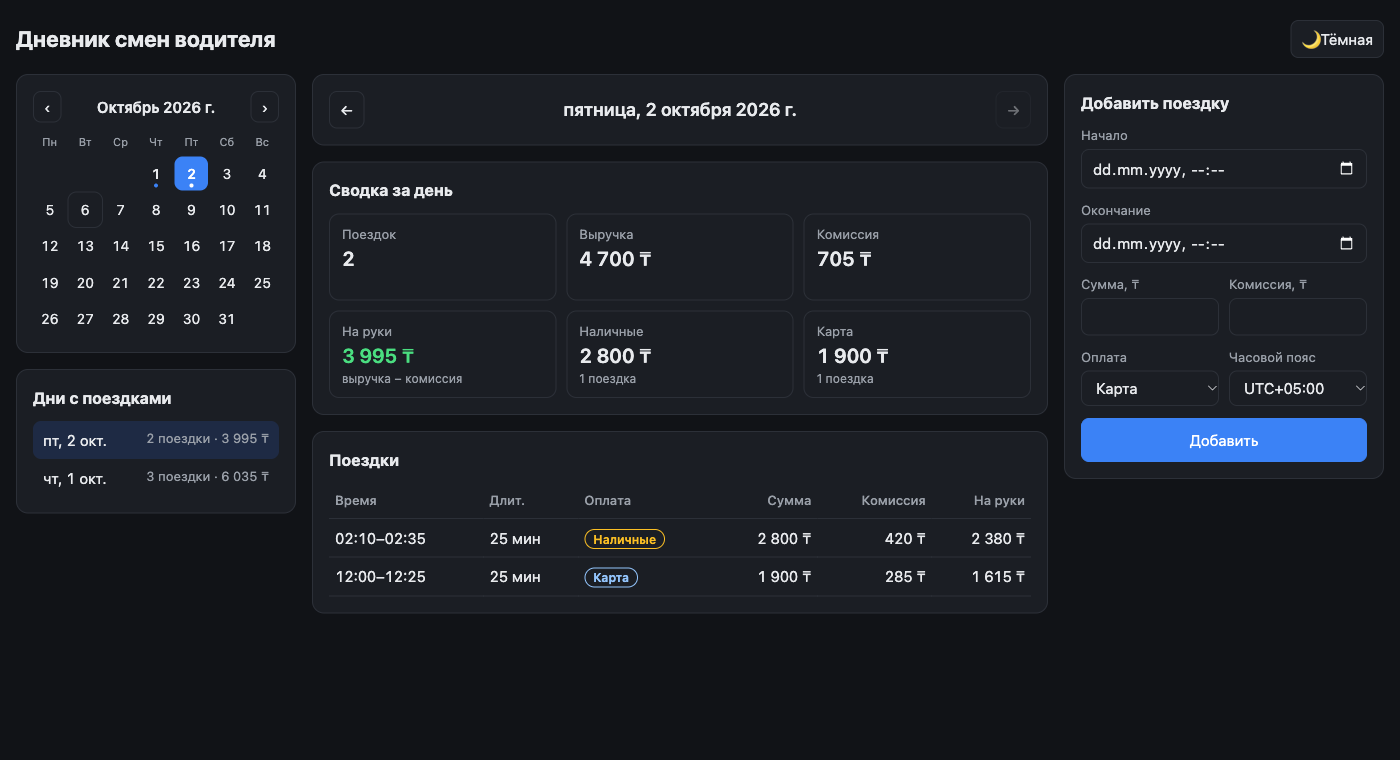
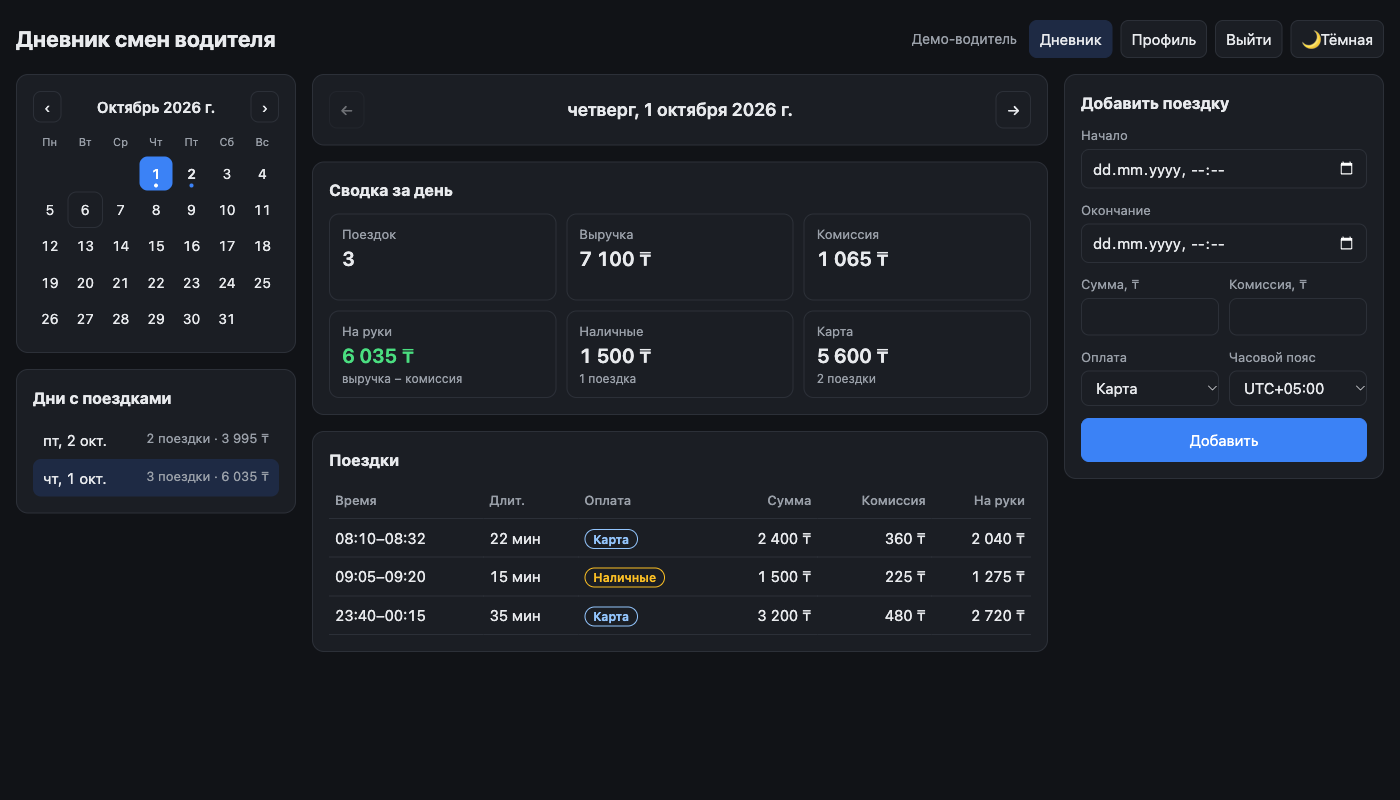
README: accounts, PostgreSQL, Docker; refresh screenshots

diff --git a/README.md b/README.md
@@ -1,59 +1,93 @@
 # Дневник смен водителя
 
-Небольшое веб-приложение: водитель видит сводку за день (поездки, выручка, комиссия, «на руки», наличные/карта), список поездок, переключает дни и добавляет новые поездки.
+Веб-приложение для водителя: личный кабинет, сводка за день (поездки, выручка, комиссия, «на руки», наличные/карта), список поездок, переключение дней, добавление поездок.
 
-- **Сервер:** Python 3.11+, FastAPI, Pydantic v2
-- **Хранилище:** JSON-файл `data/trips.json`
+- **Сервер:** Python 3.12, FastAPI, Pydantic v2, psycopg 3
+- **База данных:** PostgreSQL 16
 - **Клиент:** одна HTML-страница на чистом JS, раздаётся тем же сервером (сборка не нужна)
-- **Тесты:** pytest
+- **Запуск:** Docker Compose
+- **Тесты:** pytest на настоящей PostgreSQL (64 теста)
 
 ![Сводка за день](docs/screenshots/day.png)
 
-## Запуск
+## Запуск в Docker
 
 ```bash
-python3 -m venv .venv
-.venv/bin/pip install -r requirements.txt
-.venv/bin/uvicorn app.main:app --port 8080
+docker compose up --build
 ```
 
-Открыть http://127.0.0.1:8080
+Открыть http://127.0.0.1:8080 и войти демо-водителем: **demo@example.com / demo12345** — или зарегистрировать свой аккаунт.
 
-Файл данных можно подменить переменной окружения: `TRIPS_FILE=/path/to/trips.json`.
+Демо-водитель с поездками из `data/trips.json` создаётся один раз, в пустой базе (`SEED_DEMO=1`). Данные хранятся в томе `pgdata` и переживают перезапуск; начать с чистой базы: `docker compose down -v`.
 
-### Тесты
+Переменные (пароль базы, `SEED_DEMO`, `COOKIE_SECURE` для HTTPS) — в [`.env.example`](.env.example); скопируйте его в `.env`, чтобы поменять значения.
+
+## Локальная разработка и тесты
 
 ```bash
+docker compose up -d db                      # только PostgreSQL, порт 5433
+python3 -m venv .venv
+.venv/bin/pip install -r requirements-dev.txt
+
+SEED_DEMO=1 .venv/bin/uvicorn app.main:app --port 8080 --reload
 .venv/bin/pytest -v
 ```
 
-25 тестов: расчёт сводки, отнесение поездки к дню, защита от дублей, валидация.
+Тесты используют отдельную базу `shifts_test` (создаётся контейнером при первом запуске) и очищают её перед каждым тестом. Если PostgreSQL недоступна, тесты, которым нужна база, пропускаются с подсказкой, как её поднять.
 
 ## Что сделано
 
-### API
+### Личный кабинет
+- Регистрация по e-mail и паролю, вход, выход.
+- Каждый водитель видит и добавляет только свои поездки.
+- Профиль: имя, автомобиль, часовой пояс и процент комиссии по умолчанию — подставляются в форму новой поездки (комиссия считается от суммы, пока её не поправили вручную).
+- Удаление аккаунта с подтверждением паролем: удаляются водитель, все его поездки и все сессии.
 
-| Метод | Путь | Описание |
+| Вход | Профиль | Удаление аккаунта |
 |---|---|---|
-| GET | `/api/days` | Дни, в которые есть поездки: `[{date, count, net}]` |
-| GET | `/api/trips?date=YYYY-MM-DD` | Поездки за день, по времени начала |
-| GET | `/api/summary?date=YYYY-MM-DD` | Сводка за день |
-| POST | `/api/trips` | Добавить поездку |
+| ![](docs/screenshots/login.png) | ![](docs/screenshots/profile.png) | ![](docs/screenshots/delete.png) |
+
+### Дневник
+- Слева — календарь (дни с поездками отмечены точкой, клик открывает день) и список дней с числом поездок и суммой «на руки»; кнопки ← → переходят к соседнему дню с поездками.
+- В центре — сводка за день и таблица поездок.
+- Справа — форма добавления; ошибки валидации показываются под полями.
+- Всплывающие уведомления, светлая/тёмная тема (по умолчанию как в системе), адаптивная вёрстка.
+
+| Ошибки под полями | Тёмная тема | Телефон |
+|---|---|---|
+| ![](docs/screenshots/validation.png) | ![](docs/screenshots/day-dark.png) | ![](docs/screenshots/mobile.png) |
+
+### API
 
 Интерактивная документация: http://127.0.0.1:8080/docs
 
-```bash
-curl "http://127.0.0.1:8080/api/summary?date=2026-10-01"
-```
-```json
-{"date": "2026-10-01", "count": 3, "revenue": 7100, "commission": 1065, "net": 6035,
- "cash": {"count": 1, "amount": 1500}, "card": {"count": 2, "amount": 5600}}
-```
+| Метод | Путь | Описание |
+|---|---|---|
+| POST | `/api/auth/register` | Регистрация `{email, password, name}`, сразу открывает сессию |
+| POST | `/api/auth/login` | Вход `{email, password}` |
+| POST | `/api/auth/logout` | Выход |
+| GET | `/api/me` | Профиль |
+| PATCH | `/api/me` | Изменить профиль (только присланные поля) |
+| DELETE | `/api/me` | Удалить аккаунт `{password}` |
+| GET | `/api/days` | Дни с поездками: `[{date, count, net}]` |
+| GET | `/api/trips?date=YYYY-MM-DD` | Поездки за день |
+| GET | `/api/summary?date=YYYY-MM-DD` | Сводка за день |
+| POST | `/api/trips` | Добавить поездку |
+| GET | `/api/health` | Проверка сервиса и базы (для healthcheck) |
+
+Все методы, кроме регистрации, входа и `health`, требуют сессию (cookie) и без неё отвечают **401**.
 
 ```bash
-curl -X POST http://127.0.0.1:8080/api/trips -H "Content-Type: application/json" -d '{
-  "id": "t6", "start": "2026-10-02T14:00:00+05:00", "end": "2026-10-02T14:30:00+05:00",
-  "amount": 2000, "payment": "cash", "commission": 300}'
+curl -c jar -H 'Content-Type: application/json' \
+  -d '{"email":"demo@example.com","password":"demo12345"}' http://127.0.0.1:8080/api/auth/login
+
+curl -b jar "http://127.0.0.1:8080/api/summary?date=2026-10-01"
+# {"date":"2026-10-01","count":3,"revenue":7100,"commission":1065,"net":6035,
+#  "cash":{"count":1,"amount":1500},"card":{"count":2,"amount":5600}}
+
+curl -b jar -H 'Content-Type: application/json' http://127.0.0.1:8080/api/trips -d '{
+  "id":"t6","start":"2026-10-02T14:00:00+05:00","end":"2026-10-02T14:30:00+05:00",
+  "amount":2000,"payment":"cash","commission":300}'
 ```
 
 Ответы `POST /api/trips`:
@@ -62,64 +96,69 @@ curl -X POST http://127.0.0.1:8080/api/trips -H "Content-Type: application/json"
 |---|---|
 | 201 | Поездка создана |
 | 200 | Такая поездка уже есть (повторная отправка) — возвращается существующая, дубль не создаётся |
-| 409 | Поездка с этим `id` уже есть, но с другими данными |
+| 409 | У водителя уже есть поездка с этим `id`, но с другими данными |
 | 422 | Ошибка валидации; в `detail` — **все** ошибки сразу, у каждой своё поле (`loc`) и код (`type`) |
-
-### Клиент
-
-- Слева — календарь (дни с поездками отмечены точкой, клик открывает день) и список дней с числом поездок и суммой «на руки»; кнопки ← → переходят к соседнему дню с поездками.
-- В центре — сводка за день и таблица поездок.
-- Справа — форма добавления; ошибки валидации показываются под соответствующими полями.
-- Уведомления («Поездка добавлена», «Такая поездка уже есть», ошибки сервера) — всплывающие.
-- Светлая/тёмная тема: по умолчанию как в системе, переключатель в шапке.
-- Адаптивная вёрстка: на телефоне колонки идут друг под другом.
-
-| Ошибки под полями | Уведомление | Телефон |
-|---|---|---|
-| ![](docs/screenshots/validation.png) | ![](docs/screenshots/toast.png) | ![](docs/screenshots/mobile.png) |
 
 ## Принятые решения
 
-1. **К какому дню относится поездка — по локальному времени начала**, с тем смещением, которое записано в самой поездке (`+05:00`), а не по UTC. Иначе поездка в 02:10 по местному времени (21:10 UTC предыдущего дня) уехала бы во вчерашний день. Поездка через полночь (23:40–00:15) относится к дню начала. Обе ситуации есть в примере данных и в тестах.
-2. **«На руки» = выручка − комиссия.** Разбивка наличные/карта — по сумме поездок.
-3. **Деньги — целые числа** (тенге), без float.
-4. **Валидация:** `amount > 0`; `end > start`; `0 ≤ commission ≤ amount`; `payment` ∈ {`cash`, `card`}; у времени обязателен часовой пояс.
-5. **Защита от дублей (идемпотентность):**
-   - тот же `id` и те же данные → 200, существующая запись;
-   - тот же `id`, другие данные → 409 (молча перезаписывать или игнорировать опасно);
-   - запрос без `id` → сервер вычисляет `id` как хеш содержимого (`start`, `end` в UTC, `amount`, `payment`, `commission`), поэтому повторная отправка формы тоже не создаст дубль;
-   - время сравнивается как момент, а не как строка: `10:00+05:00` и `05:00Z` — одна и та же поездка.
-6. **Хранилище** — JSON-файл; запись атомарная (временный файл + `os.replace`) и под блокировкой, чтобы проверка на дубль и запись не разъезжались при параллельных запросах.
+1. **К какому дню относится поездка — по локальному времени начала**, с тем смещением, которое записано в самой поездке (`+05:00`), а не по UTC. Иначе поездка в 02:10 по местному времени (21:10 UTC предыдущего дня) уехала бы во вчерашний день. Поездка через полночь (23:40–00:15) относится к дню начала.
+2. **Смещение хранится в PostgreSQL отдельно.** `timestamptz` хранит момент времени и теряет исходное смещение: из базы вернулось бы `21:10Z`, и правило из пункта 1 сломалось бы. Поэтому у поездки есть колонки `start_offset_min`, `end_offset_min` и вычисленный `local_day` (по нему индекс и выборка дня), а API отдаёт время ровно в том виде, в каком его прислали.
+3. **«На руки» = выручка − комиссия.** Деньги — целые числа (тенге), без float.
+4. **Валидация:** `amount > 0`; `end > start`; `0 ≤ commission ≤ amount`; `payment` ∈ {`cash`, `card`}; у времени обязателен часовой пояс. Те же ограничения продублированы `CHECK`-ами в схеме.
+5. **Защита от дублей — на уровне базы:** первичный ключ `(driver_id, id)` и `INSERT … ON CONFLICT DO NOTHING`. Если строка не вставилась, существующая сравнивается с присланной:
+   - те же данные → 200, существующая запись;
+   - другие данные → 409 (молча перезаписывать или игнорировать опасно);
+   - запрос без `id` → сервер вычисляет `id` как хеш содержимого, поэтому повторная отправка формы тоже не создаст дубль;
+   - время сравнивается как момент: `10:00+05:00` и `05:00Z` — одна и та же поездка;
+   - одинаковый `id` у разных водителей — не конфликт.
+
+   Это корректно и при одновременных запросах, и при нескольких процессах: тест отправляет одну поездку из 8 потоков и проверяет, что запись ровно одна.
+6. **Аутентификация:**
+   - пароли — `scrypt` с солью (стандартная библиотека Python);
+   - сессия — случайный токен в cookie `HttpOnly; SameSite=Lax` на 30 дней, в базе хранится только SHA-256 токена;
+   - неверный пароль и неизвестный e-mail дают одинаковый ответ за одинаковое время (для неизвестного e-mail проверяется фиктивный хеш);
+   - 5 неудачных попыток входа за 15 минут → 429 с `Retry-After`; тот же лимит на подтверждение пароля при удалении аккаунта;
+   - CSRF: изменяющие запросы принимают только `application/json`, которое не может отправить обычная HTML-форма с чужого сайта.
+7. **Удаление аккаунта** требует пароль: одной украденной cookie недостаточно, чтобы стереть данные. Поездки и сессии удаляются каскадно (`ON DELETE CASCADE`).
 
 ### Ограничения
 
-- Один водитель, без авторизации.
-- Блокировка — внутри одного процесса; для нескольких воркеров или серверов нужна БД (например, SQLite с уникальным ключом по `id`).
-- Две действительно разные поездки без `id` с полностью совпадающими временем и суммами будут считаться одной — на практике это маловероятно, а клиент с собственными `id` такого ограничения не имеет.
+- Лимит попыток входа хранится в памяти процесса, поэтому приложение запускается одним воркером; для нескольких экземпляров лимит нужно вынести в общее хранилище (таблица или Redis).
+- Нет восстановления пароля и подтверждения e-mail — для этого нужна отправка писем.
+- Схема создаётся при старте (`CREATE TABLE IF NOT EXISTS`); при развитии проекта стоит перейти на миграции (Alembic).
+- Две действительно разные поездки без `id` с полностью совпадающими временем и суммами считаются одной; клиент с собственными `id` такого ограничения не имеет.
 
 ## Структура
 
 ```
 app/
-  main.py      # FastAPI: роуты, раздача static
-  models.py    # Pydantic-модели и валидация
-  summary.py   # расчёт сводки и списка дней (чистые функции)
-  storage.py   # JSON-хранилище, идемпотентное добавление
+  main.py        # FastAPI: роуты, зависимости (сессия, CSRF), запуск
+  models.py      # Pydantic-модели и валидация
+  schema.sql     # схема PostgreSQL
+  db.py          # пул соединений, применение схемы
+  storage.py     # поездки: выборки и идемпотентное добавление
+  accounts.py    # водители, сессии, профиль
+  security.py    # хеширование паролей, лимит попыток входа
+  summary.py     # расчёт сводки за день (чистая функция)
+  seed.py        # демо-водитель
 static/index.html
-data/trips.json
-tests/
-  test_summary.py
-  test_api.py
+data/trips.json  # демо-данные
+db/init/         # создание тестовой базы в контейнере
+tests/           # test_summary, test_storage, test_api, test_auth, test_isolation
+Dockerfile, docker-compose.yml, .env.example
 ```
 
 ## Как использовался ИИ
 
-Проект сделан вместе с Claude Code: сначала согласовали план (стек, API, правила дня и дублей), затем код писался по шагам с подтверждением каждого шага, после каждого шага — тесты и проверка в браузере (Playwright).
+Проект сделан вместе с Claude Code. Сначала согласовали план (стек, API, правила дня и дублей), затем код писался по шагам с подтверждением каждого шага; после каждого шага — тесты и проверка в браузере (Playwright). Личный кабинет и переход на PostgreSQL + Docker — отдельный план и шесть шагов, по коммиту на шаг.
 
 **Где ИИ ошибся и что исправлено:**
 
 - **Валидация показывала только одну ошибку.** Первая версия проверяла `end > start` и `commission ≤ amount` в общем `model_validator` Pydantic. Такой валидатор не запускается, если хотя бы одно поле уже невалидно, — при сумме 0 и окончании раньше начала пользователь видел только ошибку суммы. Нашлось при ручной проверке формы; перенесено в валидаторы полей, добавлен тест, что все ошибки приходят одним ответом.
+- **Ловушка `timestamptz`.** При переходе на PostgreSQL наивное хранение времени в `timestamptz` потеряло бы смещение `+05:00` и вернуло бы ошибку с отнесением ночных поездок к предыдущему дню. Смещение и день вынесены в отдельные колонки, добавлен тест на сохранение и чтение.
 - **Тесты не запускались** — pytest не находил пакет `app`; добавлен `pytest.ini` с `pythonpath`.
+- **`form.name` в JS** — у HTML-формы есть собственное свойство `name`, обращение к полю «Имя» через него неоднозначно; заменено на `form.elements.name`.
+- **Уведомления перекрывали кнопки навигации** в шапке после её появления — перенесены в правый нижний угол.
 - **Мелочи интерфейса:** «1 поездок» вместо «1 поездка» (добавлено склонение), «Октябрь 2026 Г.» из-за CSS `text-transform: capitalize`, обрезанная колонка таблицы на телефоне.
 
 **Что поправлено по моему ревью:**
@@ -129,4 +168,6 @@ tests/
 - поля даты были слишком узкими — дата/время окончания не помещались; форма вынесена в боковую колонку, поля на всю ширину;
 - добавлена боковая панель с календарём и списком дней для быстрого перехода, а не только листание стрелками;
 - добавлен переключатель темы;
+- добавлены личный кабинет водителя и удаление аккаунта;
+- выбраны PostgreSQL вместо JSON-файла и запуск в Docker;
 - комментарии в коде переведены на английский.
